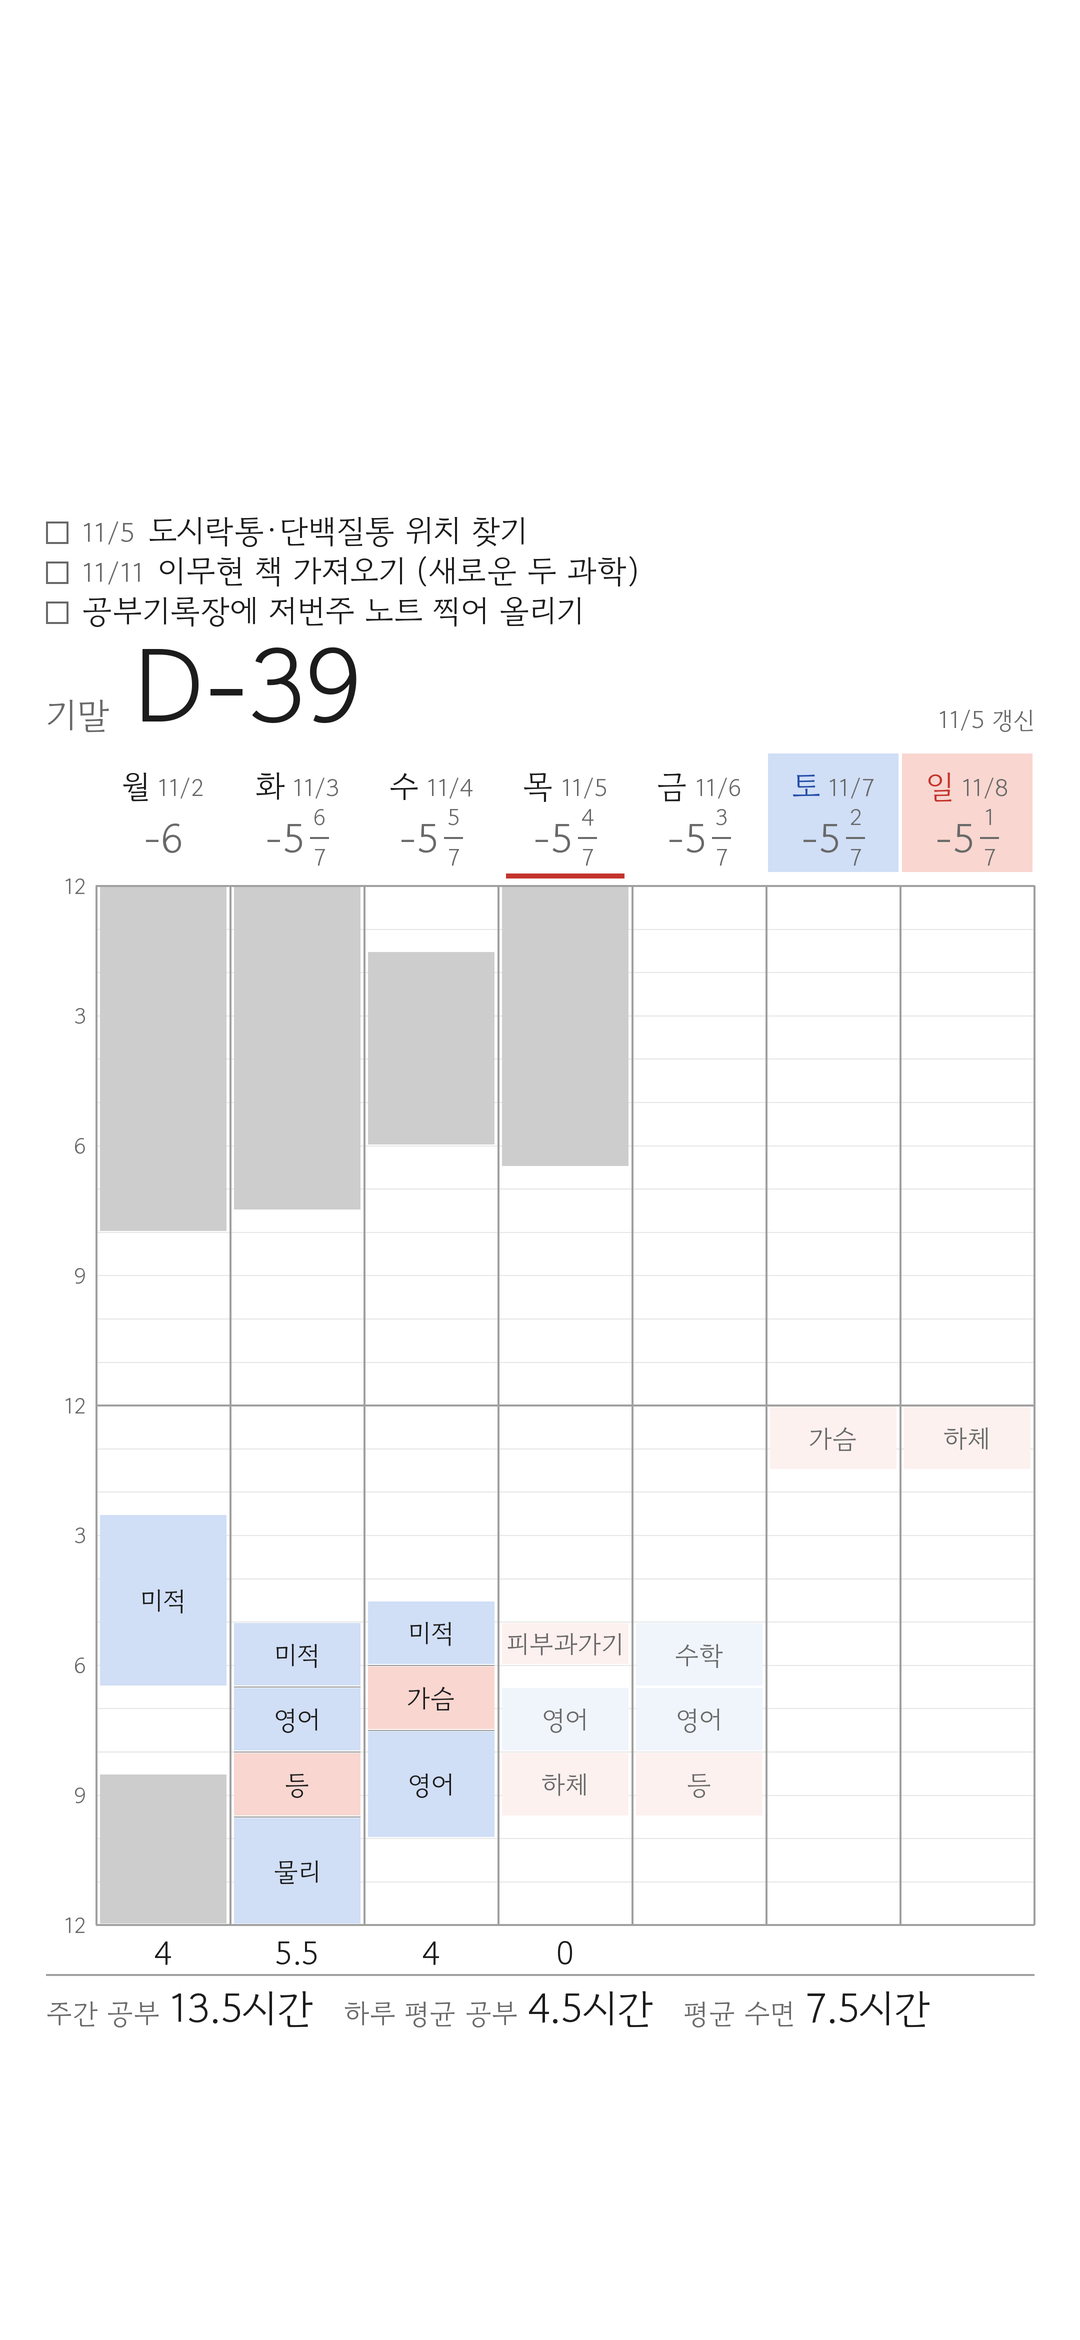
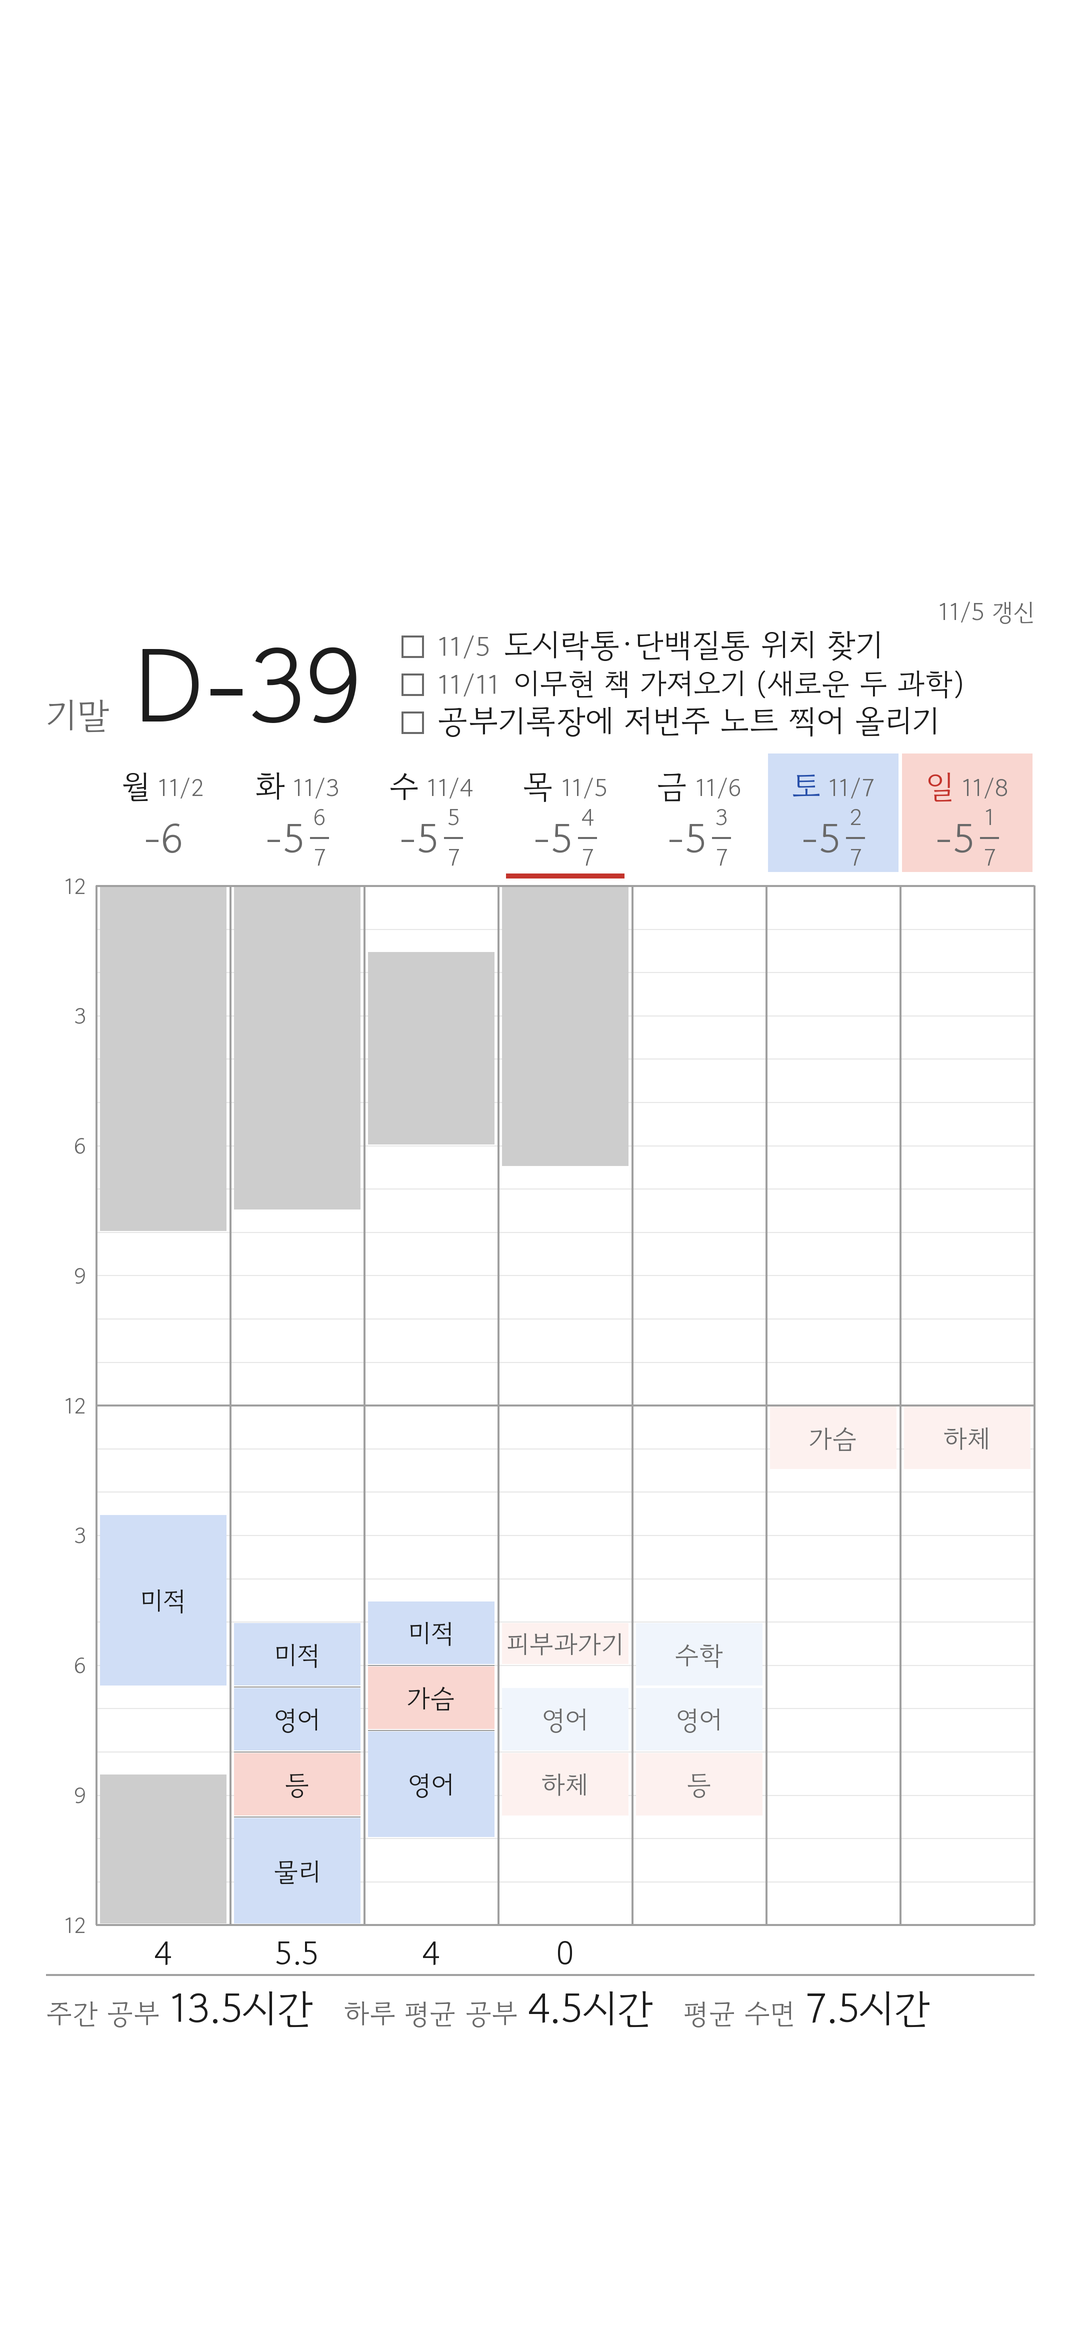
잠금화면: 해야 할 일을 머리말 줄 오른쪽으로 옮기고 갱신 날짜를 위로 이동
Claude-Session: https://claude.ai/code/session_016sgH3Uwj1AQWMYSEe8zxHf

Changed region(s): [[0.1528, 0.2184, 0.8861, 0.312], [0.0306, 0.2184, 0.1222, 0.2808]]

diff --git a/make.py b/make.py
@@ -83,15 +83,16 @@ def header(g, data, today, W, L, R, y, u):
     """머리말: 남은 기간을 주 단위 대분수로 (-5 5/7 = 5주 5일)."""
     exam = data.get("exam")
     if not exam:
-        return y + 136 * u
+        return y + 136 * u, L
     left = (datetime.date.fromisoformat(exam["date"]) - today).days
     fs, fb = font(SANS, int(36 * u)), font(SERIF, int(104 * u))
     base = y + 98 * u
     name = exam["name"]
     g.text((L, base), name, font=fs, fill=INK_SOFT, anchor="ls")
     x = L + text_w(g, name, fs) + 22 * u
-    g.text((x, base), f"D-{max(left, 0)}", font=fb, fill=INK, anchor="ls")
-    return y + 136 * u
+    dday = f"D-{max(left, 0)}"
+    g.text((x, base), dday, font=fb, fill=INK, anchor="ls")
+    return y + 136 * u, x + text_w(g, dday, fb)
 
 
 def footer(g, stats, L, R, y, u):
@@ -107,18 +108,19 @@ def footer(g, stats, L, R, y, u):
         x += text_w(g, value, fb) + 30 * u
 
 
-def todo_list(g, data, today, L, R, y, u):
-    """시계와 머리말 사이 빈 자리에 해야 할 일(날짜 있는 것은 지난 뒤 사라짐)을 적는다."""
+def todo_list(g, data, today, x0, R, y, u):
+    """머리말 줄 오른쪽 빈 자리(D-day 옆)에 해야 할 일을 적는다. 날짜 있는 것은 지난 뒤 사라진다."""
     items = [t for t in data.get("todos", []) if not t["d"] or t["d"] >= today.isoformat()]
     if not items:
         return
     more, items = len(items) - 3, items[:3]
-    fd, gap, box = font(SANS, int(27 * u)), 40 * u, 22 * u
-    first = y - 8 * u - gap * (len(items) - 1)
+    fd, gap, box = font(SANS, int(27 * u)), 38 * u, 22 * u
+    first = y + 26 * u
+    left = x0 + 40 * u
     for i, t in enumerate(items):
         b = first + gap * i
-        g.rectangle((L, b - box, L + box, b), outline=INK_SOFT, width=max(2, int(2 * u)))
-        x = L + box + 14 * u
+        g.rectangle((left, b - box, left + box, b), outline=INK_SOFT, width=max(2, int(2 * u)))
+        x = left + box + 14 * u
         if t["d"]:
             d = datetime.date.fromisoformat(t["d"])
             ds = f"{d.month}/{d.day}"
@@ -145,8 +147,9 @@ def draw(data, today, W, H, out):
     L, R = margin, W - margin
     grid_l = L + axis
     col = (R - grid_l) / 7
-    y = header(g, data, today, W, L, R, H * TOP_EMPTY, u)
-    todo_list(g, data, today, L, R, H * TOP_EMPTY, u)
+    y0 = H * TOP_EMPTY
+    y, dday_end = header(g, data, today, W, L, R, y0, u)
+    todo_list(g, data, today, dday_end, R, y0, u)
 
     monday = today - datetime.timedelta(days=today.weekday())
     dates = [monday + datetime.timedelta(days=i) for i in range(7)]
@@ -274,8 +277,8 @@ def draw(data, today, W, H, out):
              ("하루 평균 공부", f"{label(week_study / passed)}시간" if passed else "–"),
              ("평균 수면", f"{label(sleep_hours / sleep_days)}시간" if sleep_days else "–")]
     footer(g, stats, L, R, bottom + total_h, u)
-    # 갱신 날짜는 머리말 줄 오른쪽에 둔다.
-    g.text((R, H * TOP_EMPTY + 98 * u), stamp, font=font(SANS, int(24 * u)), fill=INK_SOFT, anchor="rs")
+    # 갱신 날짜는 머리말 줄 바로 위 오른쪽에 둔다.
+    g.text((R, H * TOP_EMPTY - 10 * u), stamp, font=font(SANS, int(24 * u)), fill=INK_SOFT, anchor="rs")
     im.resize((W // SS, H // SS), Image.LANCZOS).save(out, optimize=True)
 
 
